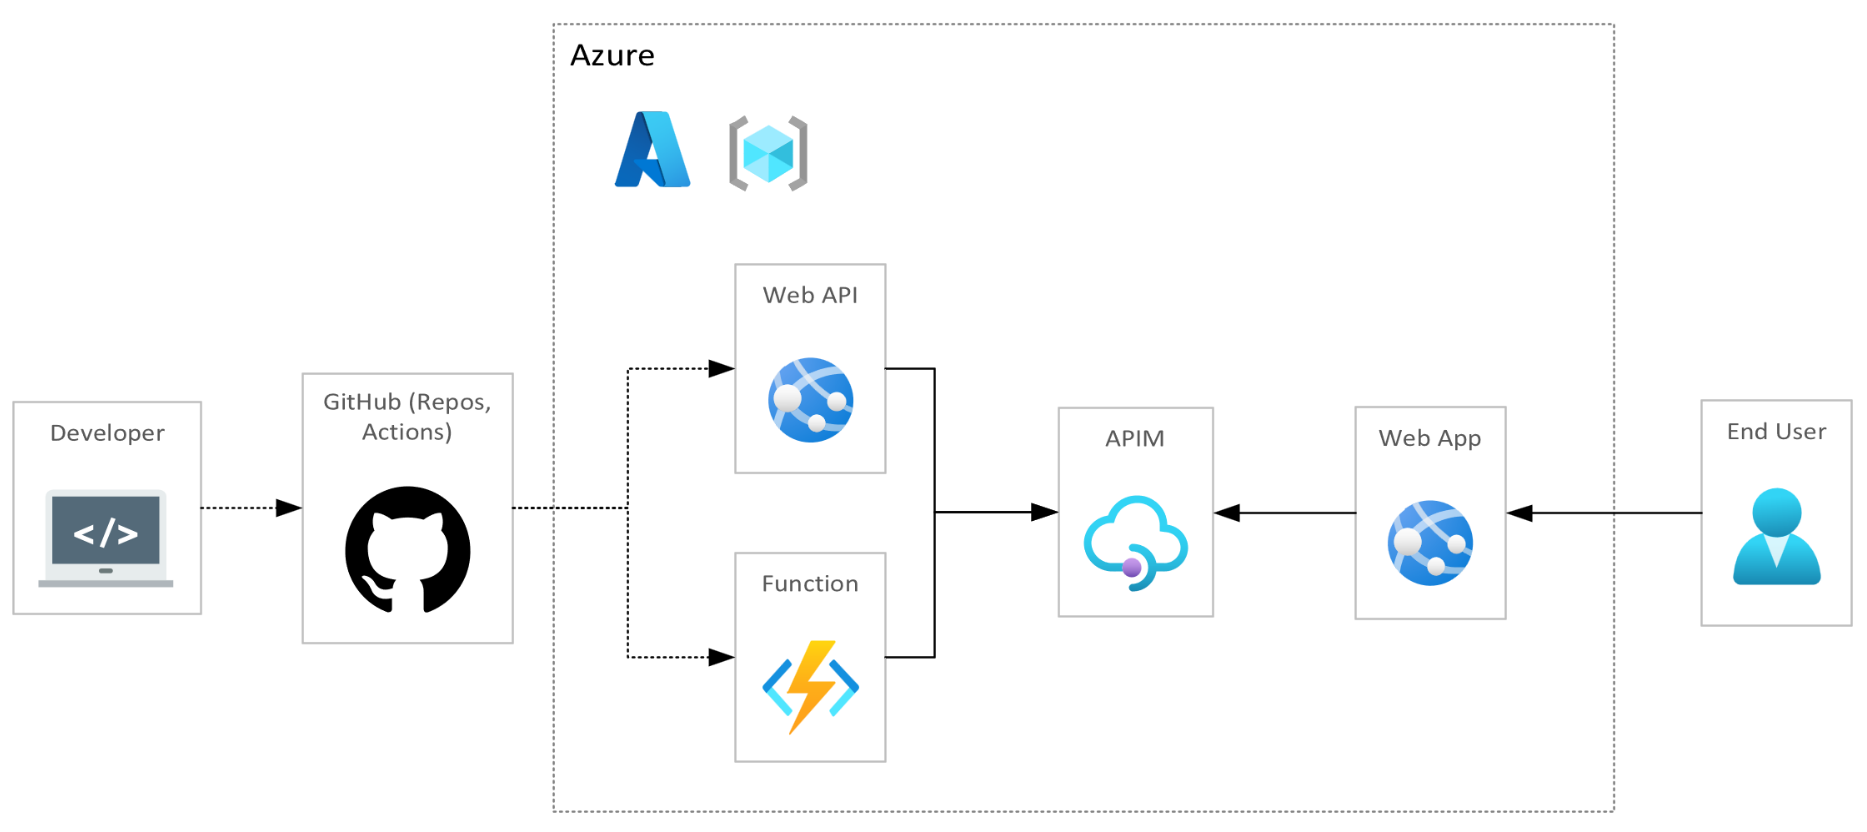
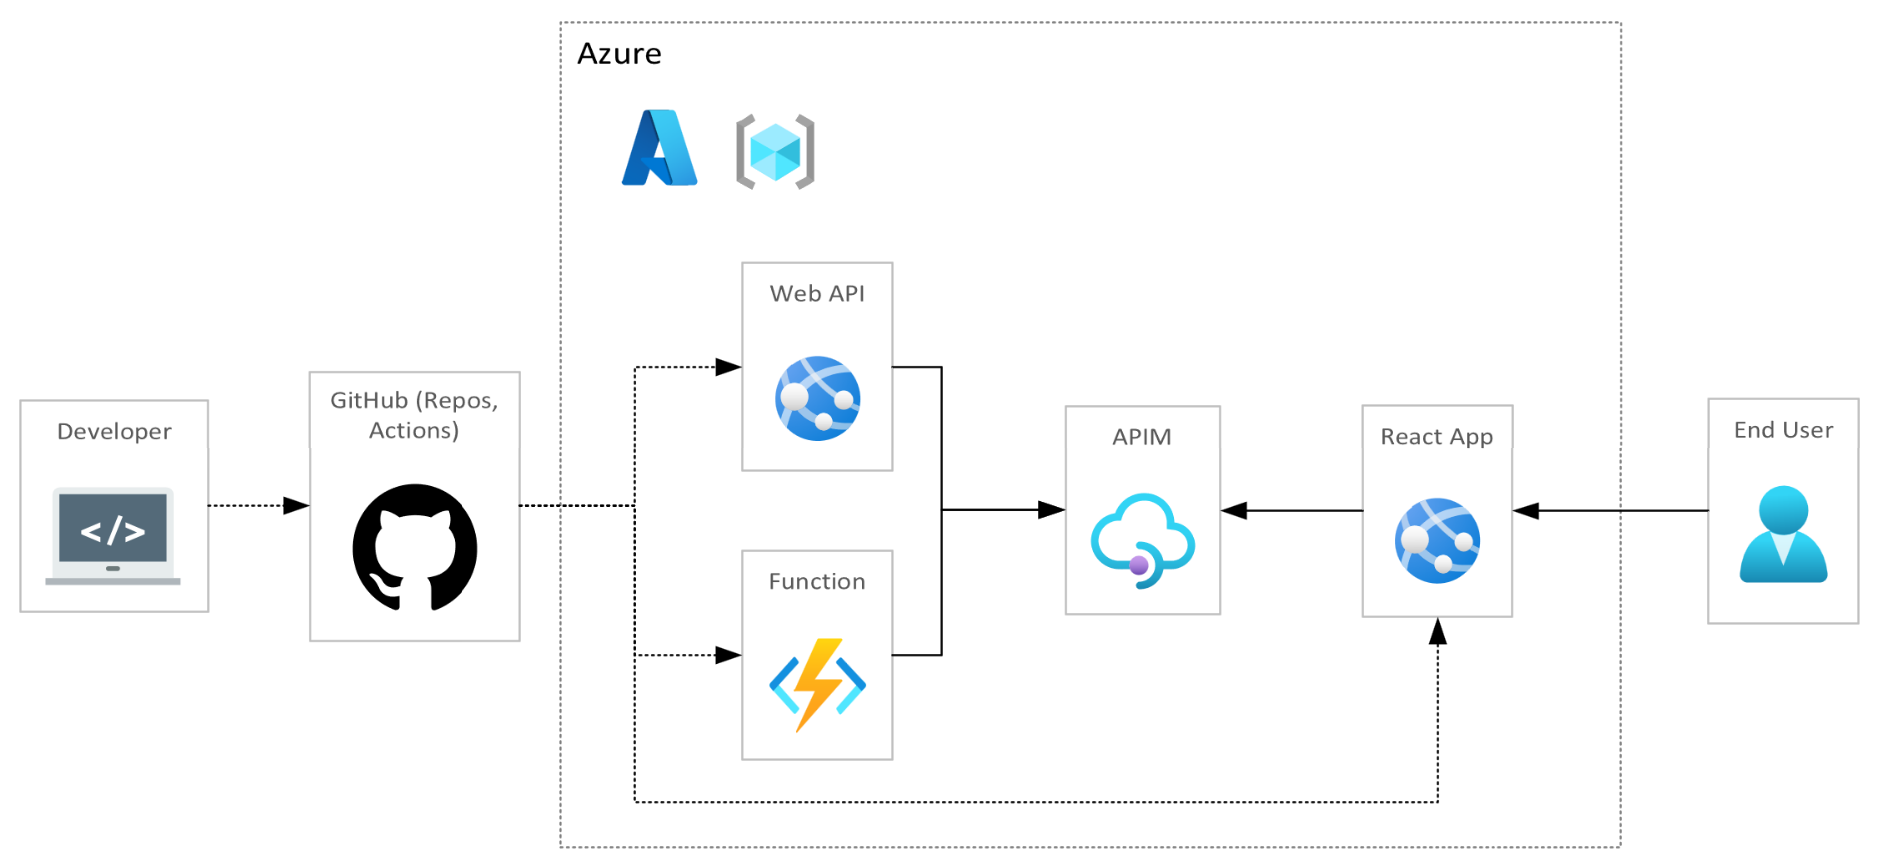
wrote readme

diff --git a/README.md b/README.md
@@ -1,1 +1,150 @@
-# azure-api-management
+# azure-apim-appservice-functions
+
+---
+
+| Page Type | Languages                                                | Key Services                                                     | Tools          |
+| --------- | -------------------------------------------------------- | ---------------------------------------------------------------- | -------------- |
+| Sample    | .NET <br> JavaScript (Node.js, React.js) <br> PowerShell | Azure API Management <br> Azure Functions <br> Azure App Service | GitHub Actions |
+
+---
+
+# Abstracting Azure App Service and Function Apps Web APIs with Azure API Management
+
+This sample codebase demonstrates how to deploy APIs written in .NET to [Azure App Service](https://learn.microsoft.com/en-us/azure/app-service/overview) and [Azure Function Apps](https://learn.microsoft.com/en-us/azure/azure-functions/functions-overview), and abstract them behind an [Azure API Management](https://learn.microsoft.com/en-us/azure/api-management/api-management-key-concepts) gateway. A [React.js](https://reactjs.org/) web application is used to demonstrate calling the APIs.
+<br>
+The motivation behind this guide is to provide a basic structure to get up and running quickly with API Management in Azure.
+<br>
+This sample references existing approaches documented by Microsoft, namely:
+
+-   [Azure API Management landing zone accelerator](https://learn.microsoft.com/en-us/azure/architecture/example-scenario/integration/app-gateway-internal-api-management-function)
+-   [Basic enterprise integration on Azure](https://learn.microsoft.com/en-us/azure/architecture/reference-architectures/enterprise-integration/basic-enterprise-integration?toc=%2Fazure%2Fapi-management%2Ftoc.json&bc=%2Fazure%2Fapi-management%2Fbreadcrumb%2Ftoc.json)
+
+Azure API Management is a solution that enables abstraction, security, observability, discovery, and consumption of API assets in an Azure-first, hybrid, or multicloud environment.
+<br>
+The solution presented in this codebase is simple and should be viewed as a foundation for modification and expansion into more complex applications.
+
+## Prerequisites
+
+-   [An Azure Subscription](https://azure.microsoft.com/en-us/free/) - for hosting cloud infrastructure
+-   [Az CLI](https://learn.microsoft.com/en-us/cli/azure/install-azure-cli) - for deploying Azure infrastructure as code
+-   [Azure Functions Core Tools](https://docs.microsoft.com/en-us/azure/azure-functions/functions-run-local?tabs=v4%2Cwindows%2Ccsharp%2Cportal%2Cbash) and [Azurite](https://learn.microsoft.com/en-us/azure/storage/common/storage-use-azurite?tabs=visual-studio) - for testing Functions locally
+-   [.NET 6.0](https://dotnet.microsoft.com/en-us/download/dotnet/6.0) - for .NET development
+-   [Node.js](https://nodejs.org/en/download/) - for Node.js development
+-   (Optional) [A GitHub Account](https://github.com/join) - for deploying code via GitHub Actions
+
+## Running this sample
+
+### _*Setting Up the Cloud Infrastructure*_
+
+#### App Registration
+
+-   [Register a new application](https://learn.microsoft.com/en-us/azure/active-directory/develop/quickstart-register-app)
+-   [Create a new client secret](https://learn.microsoft.com/en-us/azure/active-directory/develop/quickstart-register-app#add-a-client-secret) - you will use this if you choose to automate the deployment of the application using GitHub Actions
+
+#### Function App
+
+-   Add the desired resource names in `devops/config/variables.json`.
+-   Run the script `devops/scripts/integration/function.ps1`.
+-   This will create the Function App instance, in addition to all of the related components including a [Storage Account](https://learn.microsoft.com/en-us/azure/storage/common/storage-account-overview), [App Insights](https://learn.microsoft.com/en-us/azure/azure-monitor/app/app-insights-overview?tabs=net), and an [App Service Plan](https://learn.microsoft.com/en-us/azure/app-service/overview-hosting-plans).
+
+#### Web API & API Management
+
+-   Add the desired resource names in `devops/config/variables.json`.
+-   Run the script `devops/scripts/api/api.ps1`.
+-   This will create an API Management and App Service instance, in addition to an [App Service Plan](https://learn.microsoft.com/en-us/azure/app-service/overview-hosting-plans) if not already created.
+
+#### Client Web Application
+
+-   Add the desired resource names in `devops/config/variables.json`.
+-   Run the script `devops/scripts/client/client.ps1`.
+-   This will create an App Service instance, in addition to an [App Service Plan](https://learn.microsoft.com/en-us/azure/app-service/overview-hosting-plans) if not already created.
+
+#### GitHub Actions Secrets (for automated deployments)
+
+-   To deploy to Azure using GitHub Actions, a handful of credentials are required for connection and configuration. In this example, they will be set as [Actions Secrets](https://docs.github.com/en/rest/actions/secrets?apiVersion=2022-11-28). For each of the below secrets, the secret name and steps on how to populate the secret is provided.
+
+1.  `AZURE_SP_CREDENTIALS`:
+
+    -   A JSON object that looks like the following will need to be populated with 4 values:
+
+    ```
+    {
+       "clientId": "<GUID>",
+       "clientSecret": "<STRING>",
+       "subscriptionId": "<GUID>",
+       "tenantId": "<GUID>"
+    }
+    ```
+
+    -   You can find more details on creating this secret [here](https://github.com/marketplace/actions/azure-login#configure-a-service-principal-with-a-secret).
+    -   For clientId, run: `az ad sp list --display-name <service principal name> --query '[].[appId][]' --out tsv`
+    -   For tenantId, run: `az ad sp show --id <clientID> --query 'appOwnerOrganizationId' --out tsv`
+    -   For subscriptionId, run: `az account show --query id --output tsv`
+    -   For clientSecret: This is the client secret created alongside the App Registration above
+
+### _*Deploying the Codebase*_
+
+-   _Note: This section will discuss deployment of the codebase via GitHub Actions. If you choose not to deploy via GitHub Actions, you may opt to manually deploy the code by following the automated tasks or with another CI/CD tool - the steps will be the same._
+
+1.  Deploy the Function App by updating the branch trigger in the `.github/workflows/function-cicd.yml` file to trigger the GitHub Action.
+
+    -   This will publish, package, and deploy the .NET 'ApiFunction' to the above deployed Function App. This function is described in more detail in the below section.
+
+2.  Deploy the web API to App Service by updating the branch trigger in the `.github/workflows/web-api-cicd.yml ` file to trigger the GitHub Action.
+
+    -   This will build, publish, and deploy a web API to the API App Service deployed above.
+
+3.  Run `devops/scripts/api/endpoint-setup.ps1` - this will configure APIs in API Management using the App Service and Function endpoints.
+
+4.  Deploy the web client to App Service by updating the branch trigger in the `.github/workflows/client-cicd.yml ` file to trigger the GitHub Action.
+
+    -   This will build and deploy the React app to the web App Service deployed above.
+
+## Architecture & Workflow
+
+![Azure Function, App Service, and API Management](/docs/diagram.png)
+_A diagram visually describing the flow of code from local development to GitHub to Azure, and the way the components communicate in Azure._
+
+1. The Function's `/ApiFunction` endpoint returns a simple string, and the Web API exposes a `/Hello` endpoint, which also returns a simple string. The end user invokes these endpoints by calling their abstracted endpoint via API Management.
+    - In the UI, the user is prompted to provide an API key. The return values of these endpoints are printed to the page once execution is complete.
+2. Although the client application was created as a demonstration of calling the APIs via JavaScript, you may use any utility to call the APIs, including the [built-in testing tool](https://learn.microsoft.com/en-us/azure/api-management/import-and-publish#test-the-new-api-in-the-azure-portal) in the Azure Portal.
+
+## Considerations & Next Steps
+
+_Since this codebase demonstrates a basic setup, several additional steps can be taken to configure the architecture for production. Some of the main considerations are listed below._
+
+-   Restricting traffic to only be routed through APIM
+    -   As set up in this tutorial, the backend services communicate with API Management, but are still available on the internet. In a production scenario, you should restrict access to the backends so that traffic can be routed via the API Management instance. There are a variety of ways to achieve this, some of them being:
+        -   [IP-based rules](https://learn.microsoft.com/en-us/azure/app-service/app-service-ip-restrictions?tabs=azurecli#set-an-ip-address-based-rule)
+        -   [Client Certificate Authentication](https://learn.microsoft.com/en-us/azure/api-management/api-management-howto-mutual-certificates)
+        -   [Network-level security](https://github.com/mspnp/vnet-integrated-serverless-microservices/blob/main/docs/security_pattern.md)
+-   Importing additional APIs
+    -   APIs can be imported from a variety of backend types, including Azure Kubernetes Service, Logic Apps, or as one-off HTTP endpoints.
+    -   OpenAPI 3 APIs can be easily imported as described [here](https://devblogs.microsoft.com/premier-developer/importing-an-openapi-api-into-azure-api-management-service/).
+-   Active directory integration
+    -   API Management has various [authenication and authorization](https://learn.microsoft.com/en-us/azure/api-management/authentication-authorization-overview) mechanisms available to secure user access to features and APIs.
+    -   You can use Azure Active Directory with [OAuth](https://learn.microsoft.com/en-us/azure/api-management/api-management-howto-protect-backend-with-aad) or [B2C](https://learn.microsoft.com/en-us/azure/active-directory-b2c/secure-api-management?tabs=app-reg-ga) to achieve this.
+-   Create API revisions and versions
+    -   [Revisions](https://learn.microsoft.com/en-us/azure/api-management/api-management-revisions) allow you to modify your API endpoints in a safe/non-breaking way.
+    -   Consumers of an API will be able to choose which [version] of your API to use.
+-   Create policies
+    -   You may add [policies](https://learn.microsoft.com/en-us/azure/api-management/set-edit-policies?tabs=form) to inbound and outbound requests to control things like rate limiting, transforming headers, caching, validating JWT tokens, etc.
+-   Scaling up
+    -   The Consumption and Developer tiers may be appropriate for prototyping and evaluating the service, whereas the Standard and Premium tiers are intended for production usage, with more features to handle larger workloads.
+    -   See more about the available tiers and features [here](https://learn.microsoft.com/en-us/azure/api-management/api-management-features).
+
+## Potential Use Cases
+
+-   There are many practical use cases for using API Management, some of which include:
+    1.  Using an API gateway to secure and manage access to backend services.
+    2.  Having an API developer portal to easily onboard developers and publish API documentation.
+    3.  Enforcing usage quotas and rate limits to ensure that only authorized users have access to the API.
+    4.  Transforming incoming and outgoing data for better compatibility with other services.
+    5.  Leveraging out-of-the-box policies for authentication, authorization, and rate limiting.
+
+## Additional Resources
+
+-   [Build a .NET web app using GitHub Actions](https://learn.microsoft.com/en-us/dotnet/architecture/devops-for-aspnet-developers/actions-build)
+-   [Deploy to App Service using GitHub Actions](https://learn.microsoft.com/en-us/azure/app-service/deploy-github-actions?tabs=applevel)
+-   [React Deployment on App Service Linux](https://azureossd.github.io/2022/02/07/React-Deployment-on-App-Service-Linux/)
+-   [Deploying C# Azure Functions via GitHub Actions - _blog_](https://www.willvelida.com/posts/deploying-csharp-azure-functions-via-github-actions/)
